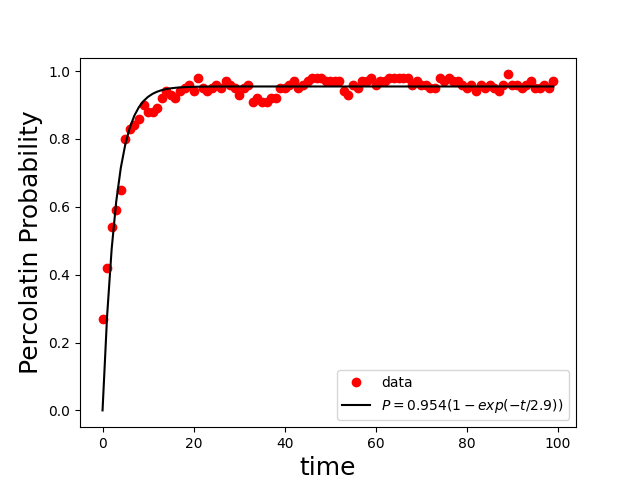
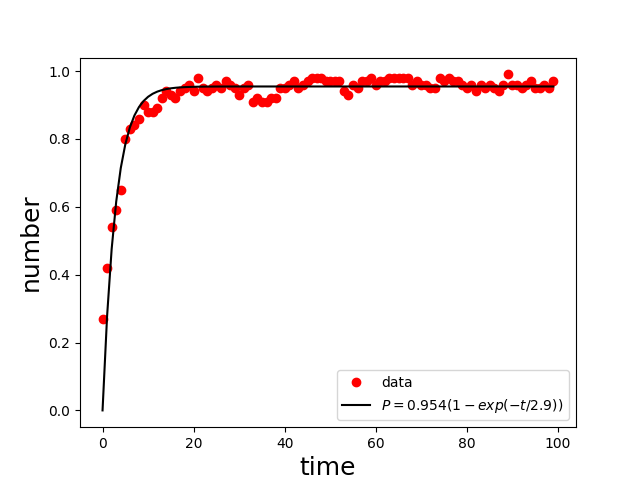
111n

Changed region(s): [[0.0312, 0.2188, 0.0625, 0.7812]]

diff --git a/new_kokoff/new_catchbond/fit_curve.py b/new_kokoff/new_catchbond/fit_curve.py
@@ -3,7 +3,7 @@ import numpy as np
 #import seaborn as sns
 import matplotlib.pyplot as plt
 
-data1 = np.loadtxt('kcon_20_num_l.dat')
+data1 = np.loadtxt('kcon_20_num_s.dat')
 
 def fit(x,K,T):
     return K*(1-np.exp(-x/T))
@@ -23,9 +23,9 @@ fig, axe = plt.subplots(1, 1)
 axe.plot(x1, y1, 'o', c='red', label = 'data')#'$k_{on}^{c}=2,k_{off}=    0.2$')
 axe.plot(x1, array_y_fit, '-', c='black', label = r'$P={}(1-exp(-t/{}))$'.format(param[0].round(3),param[1].round(3)))
 plt.xlabel("time", fontsize = 18)
-plt.ylabel("Percolatin Probability", fontsize = 18)
+plt.ylabel("number", fontsize = 18)
 axe.legend()
-fig.savefig("fit_num_kcon_ll.png")
+fig.savefig("fit_num_kcon_ss.png")
   
 #sns.pointplot(x=x1, y=y1, join=False)
 #sns.pointplot(x=x1, y=array_y_fit, markers="")
